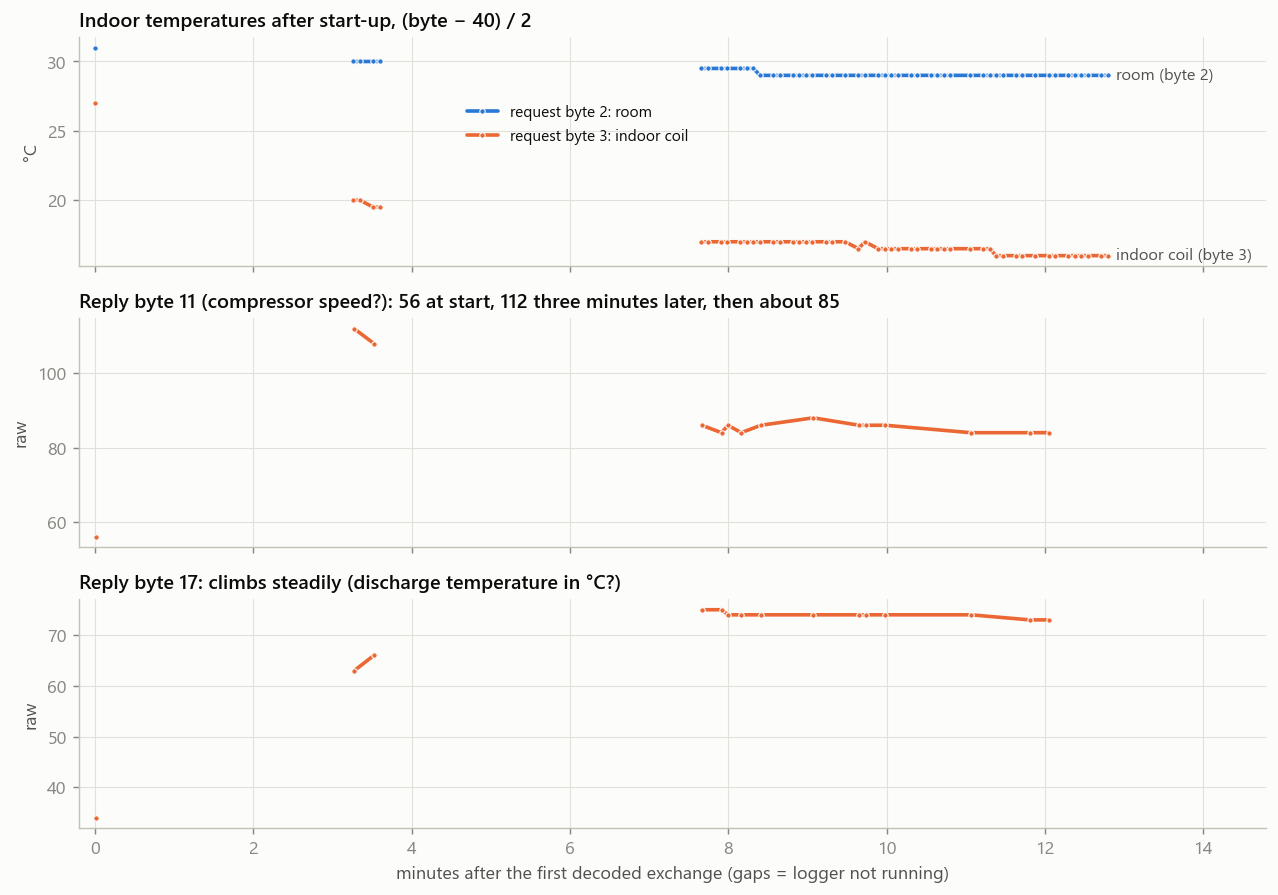
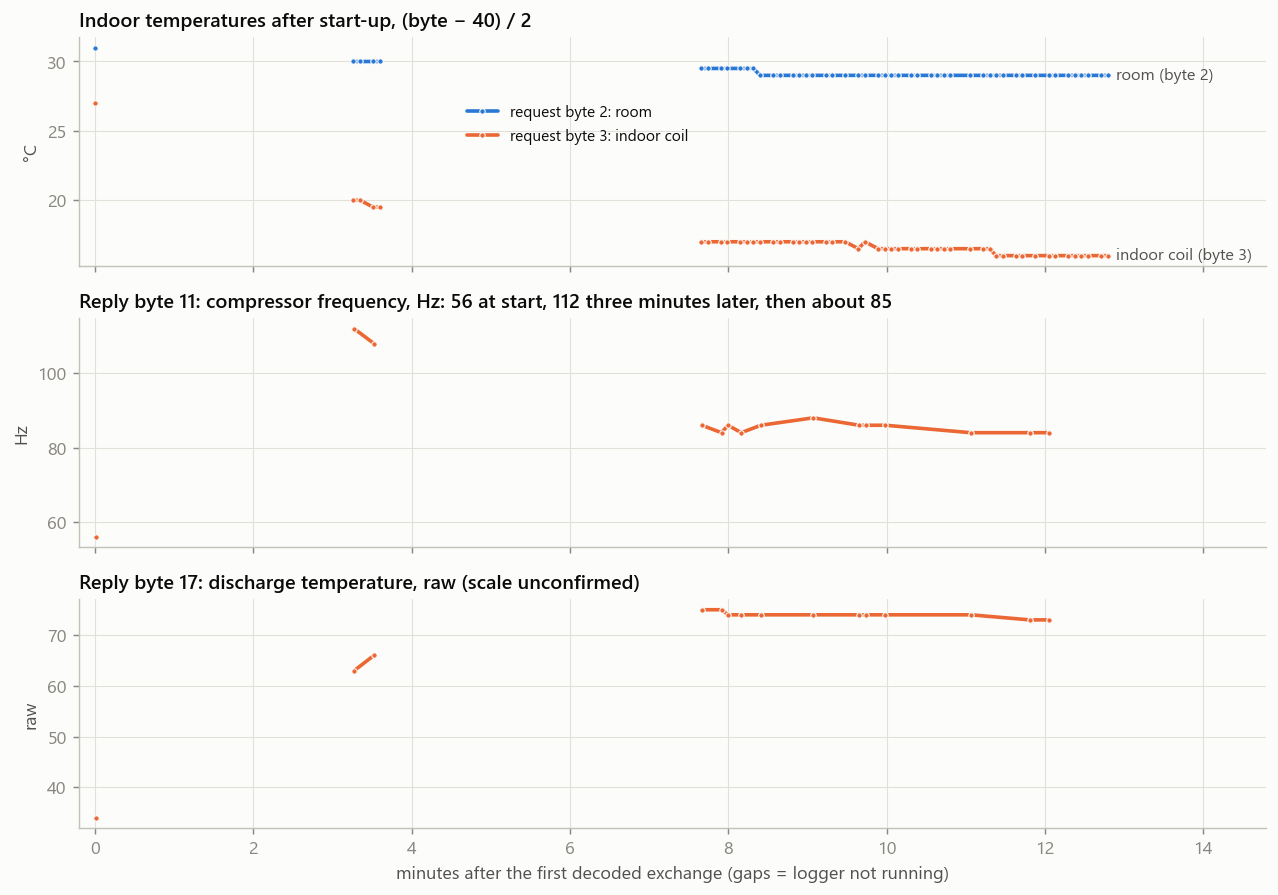
Refine reply-field decode using McKee's LNS scalings
Byte 9 is compressor current (0 whenever the compressor is off), byte 11
compressor frequency in Hz, byte 19 valve steps / 2, byte 20 outdoor fan
RPM / 10, byte 17 discharge temperature. Byte 10 is a demand level rather
than a speed target, since the compressor often runs above it. Adds a
compressor stop-and-restart figure.

Changed region(s): [[0.1526, 0.3318, 0.7019, 0.362], [0.1526, 0.6335, 0.5188, 0.6637], [0.0, 0.4827, 0.0305, 0.5128]]

diff --git a/tools/make_figures.py b/tools/make_figures.py
@@ -151,10 +151,10 @@ REP_MAP = [
     ('0', 'header', 'unknown', '28'), ('1', '? (with 8)', 'unknown', '34'), ('2', 'zero', 'unknown', '00'),
     ('3', 'zero', 'unknown', '00'), ('4', 'zero', 'unknown', '00'), ('5', 'zero', 'unknown', '00'),
     ('6', '?', 'unknown', '84'), ('7', 'zero', 'unknown', '00'), ('8', '? (with 1)', 'unknown', '34'),
-    ('9', 'current?', 'guess', '24'), ('10', 'comp. target', 'probable', '4B'), ('11', 'comp. speed', 'probable', '52'),
+    ('9', 'comp. current', 'probable', '24'), ('10', 'demand', 'probable', '4B'), ('11', 'comp. Hz', 'probable', '52'),
     ('12', '?', 'unknown', '2B'), ('13', '?', 'unknown', '01'), ('14', 'zero', 'unknown', '00'),
-    ('15', '? sensor', 'unknown', '45'), ('16', '? sensor', 'unknown', '4D'), ('17', 'discharge?', 'guess', '48'),
-    ('18', 'room echo', 'confirmed', '62'), ('19', 'valve pos.', 'probable', '7B'), ('20', 'stage?', 'guess', '3F'),
+    ('15', '? sensor', 'unknown', '45'), ('16', '? sensor', 'unknown', '4D'), ('17', 'discharge T', 'probable', '48'),
+    ('18', 'room echo', 'confirmed', '62'), ('19', 'valve (×2)', 'probable', '7B'), ('20', 'outdoor fan', 'probable', '3F'),
     ('21', '?', 'unknown', '3C'), ('22', 'zero', 'unknown', '00'), ('23', 'start stage?', 'guess', '02'),
     ('24', '?', 'unknown', '01'), ('25', 'checksum', 'confirmed', 'sum'),
 ]
@@ -204,7 +204,7 @@ ax[0].set_ylim(14, 31); ax[0].set_ylabel('°C  =  (byte − 40) / 2')
 ax[0].set_title('Request byte 1 follows every setpoint change on the remote')
 ax[1].step(tp, tgt, where='post', color=REP, lw=2)
 ax[1].set_ylim(50, 80); ax[1].set_ylabel('raw value')
-ax[1].set_title('Reply byte 10 (compressor target?) drops as the setpoint nears the 29 °C room')
+ax[1].set_title('Reply byte 10 (cooling demand) drops as the setpoint nears the 29 °C room')
 ax[1].set_xlabel('minutes into the experiment')
 fig.tight_layout(); save(fig, 'setpoint.png')
 
@@ -221,13 +221,13 @@ ax[0].step(tq, mv, where='post', color=REQ, lw=2)
 ax[0].set_yticks([0, 1, 2]); ax[0].set_yticklabels(['Fan only  0x80', 'Dry  0x83', 'Cool  0x82'])
 ax[0].set_ylim(-0.5, 2.5); ax[0].set_title('Request byte 4 = mode')
 ax[1].step(tp, [r['bytes'][10] for r in p], where='post', color=REP, lw=2)
-ax[1].set_ylim(-5, 85); ax[1].set_title('Reply byte 10: compressor target (0 in Fan only, 60 in Dry)')
+ax[1].set_ylim(-5, 85); ax[1].set_title('Reply byte 10: cooling demand (0 in Fan only, 60 in Dry)')
 ax[2].step(tp, [r['bytes'][11] for r in p], where='post', color=REP, lw=2)
-ax[2].set_ylim(-5, 95); ax[2].set_title('Reply byte 11: compressor speed (stops ~10 s after Fan only, waits to restart)')
+ax[2].set_ylim(-5, 115); ax[2].set_title('Reply byte 11: compressor frequency, Hz (stops ~10 s after Fan only, waits to restart)')
 ax[3].step(tp, [r['bytes'][23] for r in p], where='post', color=REP, lw=2)
 ax[3].set_ylim(-0.5, 2.5); ax[3].set_yticks([0, 1, 2]); ax[3].set_title('Reply byte 23: stays 0 here, even after the restart (it read 1, then 2, during the first start-up)')
 ax[3].set_xlabel('minutes')
-for x in ax[1:3]: x.set_ylabel('raw')
+ax[1].set_ylabel('raw'); ax[2].set_ylabel('Hz')
 fig.tight_layout(); save(fig, 'modes.png')
 
 # ---------- 6. start-up trends ----------
@@ -257,14 +257,38 @@ ax[0].text(tq[-1] + 0.1, deg(Q[-1][3]), 'indoor coil (byte 3)', color=INK2, va='
 ax[0].legend(['request byte 2: room', 'request byte 3: indoor coil'], loc='center', bbox_to_anchor=(0.42, 0.62), frameon=False, fontsize=8.5)
 ax[0].set_ylabel('°C'); ax[0].set_title('Indoor temperatures after start-up, (byte − 40) / 2')
 ax[1].plot(*gapped(tp, [b[11] for b in P]), color=REP, lw=2, marker='o', ms=3, mec=SURF, mew=0.6)
-ax[1].set_ylabel('raw'); ax[1].set_title('Reply byte 11 (compressor speed?): 56 at start, 112 three minutes later, then about 85')
+ax[1].set_ylabel('Hz'); ax[1].set_title('Reply byte 11: compressor frequency, Hz: 56 at start, 112 three minutes later, then about 85')
 ax[2].plot(*gapped(tp, [b[17] for b in P]), color=REP, lw=2, marker='o', ms=3, mec=SURF, mew=0.6)
-ax[2].set_ylabel('raw'); ax[2].set_title('Reply byte 17: climbs steadily (discharge temperature in °C?)')
+ax[2].set_ylabel('raw'); ax[2].set_title('Reply byte 17: discharge temperature, raw (scale unconfirmed)')
 ax[2].set_xlabel('minutes after the first decoded exchange (gaps = logger not running)')
 ax[0].set_xlim(-0.2, tq[-1] + 2.0)
 fig.tight_layout(); save(fig, 'startup.png')
 print('first request :', ' '.join(f'{x:02X}' for x in first_req))
 print('first reply   :', ' '.join(f'{x:02X}' for x in first_rep))
+
+
+# ---------- 7. compressor stop and restart ----------
+p = section({'modes', 'fan'}, 'rep', 26)
+tS = p[0]['wall']
+tp = np.array([r['wall'] - tS for r in p]) / 60
+B = np.array([r['bytes'] for r in p])
+panels = [
+    (B[:, 11], 'Hz', 'Reply byte 11: compressor frequency, Hz'),
+    (B[:, 9], 'raw', 'Reply byte 9: compressor current (raw; 0 whenever the compressor is off)'),
+    (B[:, 19] * 2, 'steps', 'Reply byte 19 × 2: expansion valve steps (opens fully to 500 and resets to 200 at stop)'),
+    (B[:, 20] * 10, 'RPM', 'Reply byte 20 × 10: outdoor fan RPM (held at 630 while the compressor was off)'),
+    (B[:, 17], 'raw', 'Reply byte 17: discharge temperature, raw (cools while off, warms after restart)'),
+]
+fig, ax = plt.subplots(len(panels), 1, figsize=(10, 9.2), sharex=True)
+stop = tp[np.argmax(B[:, 11] == 0)]
+start = tp[np.flatnonzero((B[:-1, 11] == 0) & (B[1:, 11] > 0))[0] + 1]
+for a, (y, unit, title) in zip(ax, panels):
+    a.step(tp, y, where='post', color=REP, lw=2)
+    a.axvspan(stop, start, color=GRID, alpha=0.6, lw=0)
+    a.set_title(title); a.set_ylabel(unit)
+ax[0].text((stop + start) / 2, B[:, 11].max() * 0.55, 'compressor off', ha='center', color=INK2, fontsize=9)
+ax[-1].set_xlabel('minutes (Fan only at the start, then Dry, then Cool)')
+fig.tight_layout(); save(fig, 'compressor_cycle.png')
 
 # ---------- byte ranges for the README tables ----------
 for kind, L in (('req', 16), ('rep', 26)):

diff --git a/README.md b/README.md
@@ -103,17 +103,17 @@ The first request captured after the repair:
 | 6 | `84` | never changes | unknown | constant |
 | 7 | `00` | always zero | unused | constant |
 | 8 | `00`–`42` | moves together with byte 1 | unknown | unknown |
-| 9 | `00`–`27` | 24 at start, rose to 39 with the compressor, then about 35 | current? | guess |
-| 10 | `00`–`4B` | 75 in Cool with a large room/setpoint gap, 69 at 24 °C, 59 at 26 °C, 0 in Fan only, 60 in Dry | compressor target speed | probable |
-| 11 | `00`–`70` | 56 at start, 112 after 3 minutes, about 85 steady; 0 about 10 s after Fan only, ramped back after the restart delay | actual compressor speed | probable |
+| 9 | `00`–`27` | exactly 0 whenever the compressor is off; rises with it on restart; about 35 while running | compressor current. McKee's scaling, A = b × 0.117 + 0.92, would give about 5 A; unconfirmed | probable |
+| 10 | `00`–`4B` | 75 in Cool with a large room/setpoint gap, 69 at 24 °C, 59 at 26 °C, 0 in Fan only, 60 in Dry; the compressor often runs above it | cooling demand or capacity request, not a speed the compressor follows | probable |
+| 11 | `00`–`70` | 56 at start, 112 after 3 minutes, about 85 steady; 0 about 10 s after Fan only, ramped 4 → 108 after the restart delay | compressor frequency in Hz, raw, as in McKee's decode | probable |
 | 12 | `16`–`D5` | about 42 while running, jumps to about 163 when the compressor stops | unknown | unknown |
 | 13 | `00`–`01` | | unknown | unknown |
 | 14 | `00` | always zero | unused | constant |
 | 15, 16 | `43`–`52` | slow drift | unknown sensors | unknown |
-| 17 | `22`–`4B` | 34 at start, climbs to about 75 | discharge temperature in °C? | guess |
+| 17 | `22`–`4B` | 34 at start, climbs to about 75; cools from 67 to 53 while the compressor is off | discharge temperature. Raw °C would give 53–75 °C, McKee's °C = b × 0.46 + 15.8 gives 40–50 °C; scale unconfirmed | probable |
 | 18 | `5E`–`66` | always equal to request byte 2 | echo of the room temperature | confirmed |
-| 19 | `63`–`FA` | 100 at start, up to about 150 while running, jumped 179 / 250 / 118 / 100 when the compressor stopped | expansion-valve position (too fast for a temperature) | probable |
-| 20 | `00`–`48` | 0 at start, stepped to about 63–65 | fan or valve stage? | guess |
+| 19 | `63`–`FA` | 200 steps at rest, opens slowly to 300 while running, goes fully open to 500 and resets to 200 when the compressor stops | expansion-valve position, steps = b × 2, as in McKee's decode | probable |
+| 20 | `00`–`48` | 0 at start, then 630–720 RPM; held at 630 while the compressor was off for 4 minutes | outdoor fan, RPM = b × 10, as in McKee's decode; may be a target rather than the measured speed | probable |
 | 21 | `39`–`3D` | jitters | unknown | unknown |
 | 22 | `00` | always zero | unused | constant |
 | 23 | `00`–`02` | 0, 1, 2 during the first start-up; stayed 0 after a later restart | start-up stage? | guess |
@@ -150,7 +150,7 @@ The remote converts Fahrenheit to whole degrees Celsius before sending. In Dry m
 
 ![Mode experiment](figures/modes.png)
 
-| Mode | Request byte 4 | Reply byte 10 | Compressor (reply byte 11) |
+| Mode | Request byte 4 | Reply byte 10 (demand) | Compressor (reply byte 11) |
 |---|---|---|---|
 | Cool | `82` | 75 | runs |
 | Fan only | `80` | 0 | stops within about 10 s |
@@ -171,6 +171,20 @@ The fan steps were changed faster than the 5-second poll, so only some steps wer
 | Lowest, and Dry | `82` | 4 |
 
 On Auto, byte 14 changed by itself as the room cooled, so it seems to report the speed the indoor fan actually runs rather than the button setting.
+
+### Compressor stop and restart
+
+Switching to Fan only stopped the compressor; Dry and then Cool restarted it after the usual delay. The reply bytes for the compressor, its current, the expansion valve and the discharge temperature all move together.
+
+![Compressor stop and restart](figures/compressor_cycle.png)
+
+| Reply byte | Compressor running | Compressor stopped |
+|---|---|---|
+| 11, compressor Hz | 4–108, ramping after the restart | 0 |
+| 9, current | 9–38, rising with the compressor | 0 |
+| 19 × 2, valve steps | 200 | 358, then 500 (fully open), then 200 |
+| 20 × 10, outdoor fan RPM | 630 | 630 |
+| 17, discharge temperature | 53 → 68, rising | 67 → 53, falling |
 
 ### Start-up
 
@@ -196,7 +210,7 @@ The framing, however, differs from the one documented for another Midea unit. Fl
 | Checksum | two's complement of the sum of bytes 1–15 | sum of all preceding bytes |
 | Setpoint | whole °C in one byte; half-degrees with an offset of 50 (Celsius remote) or 48 (Fahrenheit remote) in another | half-degrees with an offset of 40 |
 
-So the physical idea is shared but the framing is not: there is no single "Midea S-wire protocol". This could be an older or different Midea generation, or a different manufacturer using the same wiring scheme. A capture from another Midea-built unit with the same format would settle it.
+Several of McKee's scalings do fit this unit's reply: valve steps = byte × 2, outdoor fan RPM = byte × 10, and compressor frequency in raw Hz. So the physical idea and some encodings are shared, but the framing is not: there is no single "Midea S-wire protocol". This could be an older or different Midea generation, or a different manufacturer using the same wiring scheme. A capture from another Midea-built unit with the same format would settle it.
 
 Other documented Midea buses, all different from this one:
 
@@ -209,7 +223,7 @@ Other documented Midea buses, all different from this one:
 ## Limits of this decode
 
 - **Confidence levels.** *Confirmed* means a controlled change on the remote moved the byte as predicted. *Probable* means the byte behaves the way the named quantity must. *Guess* means a plausible match with weak evidence. *Unknown* means no interpretation yet.
-- **No reference instruments.** Room, coil, discharge and current readings were not compared against a thermometer or clamp meter, so their scaling is inferred.
+- **No reference instruments.** Room, coil, discharge and current readings were not compared against a thermometer or clamp meter, so their scaling is inferred. McKee calibrated his decode with a Midea inverter tester on the outdoor board's diagnostic port; if this unit has that port, the same tool would settle the remaining scales.
 - **One unit, one firmware.** Other units, including other Midea-built ones, use different framing on the same kind of wire; see [Manufacturer and related protocols](#manufacturer-and-related-protocols).
 - **Not yet captured:** Heat mode, the remote labels for fan steps 3, 6 and 7, defrost, and error states.
 - **Listen only.** Nothing was ever transmitted on the bus. Injecting frames could confuse both boards.
